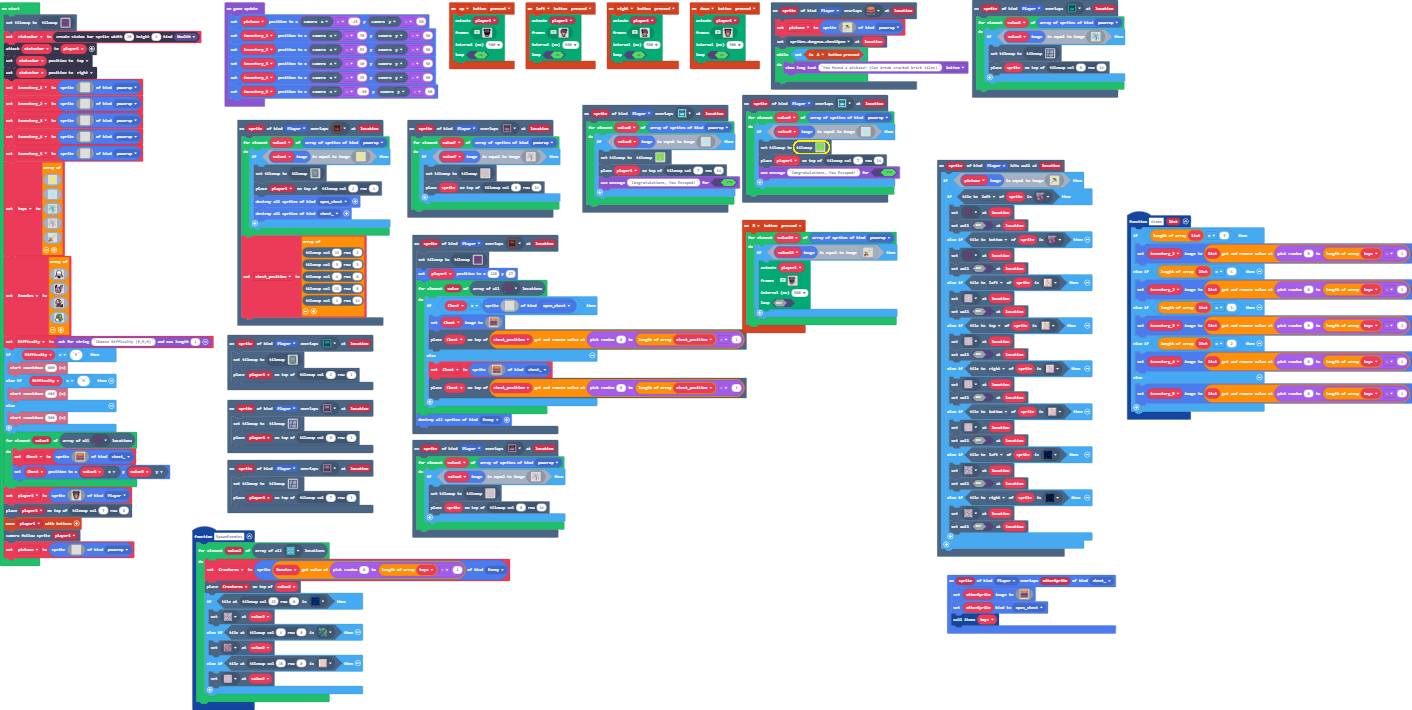
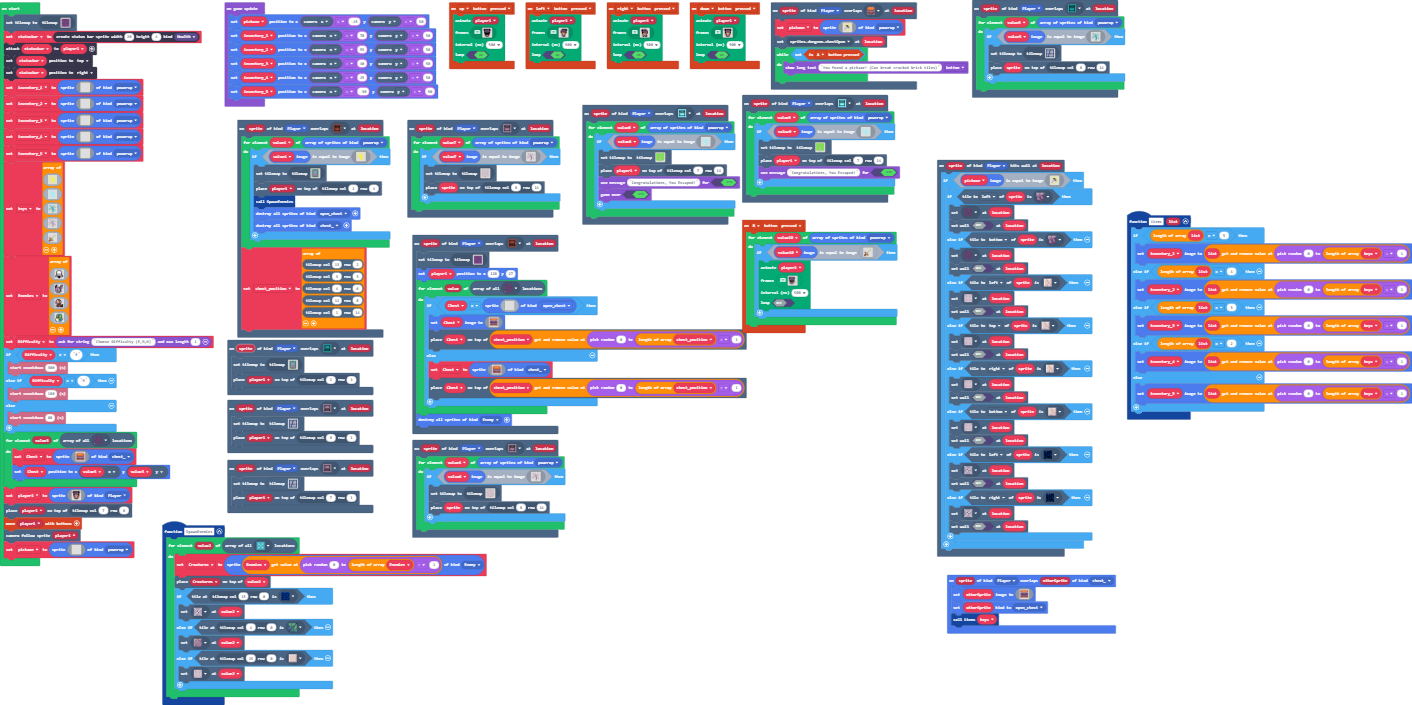
Update main.blocks, main.ts, tilemap.g.jres, tilemap.g.ts

diff --git a/tilemap.g.ts b/tilemap.g.ts
@@ -2207,25 +2207,6 @@ namespace myTiles {
 . . . . . . . . . . . . . . . . 
 . . . . . . . . . . . . . . . . 
 `, [myTiles.transparency16], TileScale.Sixteen);
-            case "level95":
[1 lines of base64/hex data omitted]
-. . . . . . . . . . . . . . . . 
-. . . . . . . . . . . . . . . . 
-. . . . . . . . . . . . . . . . 
-. . . . . . . . . . . . . . . . 
-. . . . . . . . . . . . . . . . 
-. . . . . . . . . . . . . . . . 
-. . . . . . . . . . . . . . . . 
-. . . . . . . . . . . . . . . . 
-. . . . . . . . . . . . . . . . 
-. . . . . . . . . . . . . . . . 
-. . . . . . . . . . . . . . . . 
-. . . . . . . . . . . . . . . . 
-. . . . . . . . . . . . . . . . 
-. . . . . . . . . . . . . . . . 
-. . . . . . . . . . . . . . . . 
-. . . . . . . . . . . . . . . . 
-`, [myTiles.transparency16,sprites.castle.tileGrass2,myTiles.tile19,myTiles.tile20,sprites.castle.tileGrass1,sprites.castle.tileGrass3,sprites.castle.tilePath7,sprites.castle.tilePath4,sprites.castle.tilePath1,sprites.castle.tilePath3,sprites.castle.tilePath9,sprites.castle.tilePath6,sprites.builtin.brick,sprites.dungeon.stairSouth,myTiles.tile22,myTiles.tile23], TileScale.Sixteen);
             case "level2":
             case "level2":return tiles.createTilemap(hex`1000100000000000000000000000000000000000000000000000000000000000000000000000000000000000000000000000000000000000000000000000000000000000000000000000000000000000000000000000000000000000000000000000000000000000000000000000000000000000000000000000000000000000000000000000000000000000000000000000000000000000000000000000000000000000000000000000000000000000000000000000000000000000000000000000000000000000000000000000000000000000000000000000000000000000000000000000000000000000000000000000000000000000000000000000000000000000`, img`
 . . . . . . . . . . . . . . . . 
@@ -2245,6 +2226,25 @@ namespace myTiles {
 . . . . . . . . . . . . . . . . 
 . . . . . . . . . . . . . . . . 
 `, [myTiles.transparency16], TileScale.Sixteen);
+            case "level95":
[1 lines of base64/hex data omitted]
+. . . . . . . . . . . . . . . . 
+. . . . . . . . . . . . . . . . 
+. . . . . . . . . . . . . . . . 
+. . . . . . . . . . . . . . . . 
+. . . . . . . . . . . . . . . . 
+. . . . . . . . . . . . . . . . 
+. . . . . . . . . . . . . . . . 
+. . . . . . . . . . . . . . . . 
+. . . . . . . . . . . . . . . . 
+. . . . . . . . . . . . . . . . 
+. . . . . . . . . . . . . . . . 
+. . . . . . . . . . . . . . . . 
+. . . . . . . . . . . . . . . . 
+. . . . . . . . . . . . . . . . 
+. . . . . . . . . . . . . . . . 
+. . . . . . . . . . . . . . . . 
+`, [myTiles.transparency16,sprites.castle.tileGrass2,sprites.castle.tileGrass1,sprites.castle.tileGrass3,sprites.castle.tilePath7,sprites.castle.tilePath4,sprites.castle.tilePath1,sprites.castle.tilePath3,sprites.castle.tilePath9,sprites.castle.tilePath6,sprites.builtin.brick,sprites.dungeon.stairSouth,myTiles.tile22,myTiles.tile23,sprites.builtin.forestTiles0], TileScale.Sixteen);
         }
         return null;
     })

diff --git a/main.ts b/main.ts
@@ -292,6 +292,7 @@ scene.onOverlapTile(SpriteKind.Player, assets.tile`myTile`, function (sprite, lo
             `)) {
             tiles.setCurrentTilemap(tilemap`level5`)
             tiles.placeOnTile(player1, tiles.getTileLocation(2, 4))
+            SpawnEnemies()
             sprites.destroyAllSpritesOfKind(SpriteKind.open_chest)
             sprites.destroyAllSpritesOfKind(SpriteKind.chest_)
         }
@@ -306,7 +307,7 @@ scene.onOverlapTile(SpriteKind.Player, assets.tile`myTile`, function (sprite, lo
 })
 function SpawnEnemies () {
     for (let value2 of tiles.getTilesByType(sprites.dungeon.collectibleInsignia)) {
-        Creatures = sprites.create(Enemies[randint(0, keys.length - 1)], SpriteKind.Enemy)
+        Creatures = sprites.create(Enemies[randint(0, Enemies.length - 1)], SpriteKind.Enemy)
         tiles.placeOnTile(Creatures, value2)
         if (tiles.tileAtLocationEquals(tiles.getTileLocation(15, 0), assets.tile`myTile4`)) {
             tiles.setTileAt(value2, assets.tile`myTile3`)
@@ -429,6 +430,7 @@ scene.onOverlapTile(SpriteKind.Player, assets.tile`myTile18`, function (sprite, 
             tiles.setCurrentTilemap(tilemap`level95`)
             tiles.placeOnTile(player1, tiles.getTileLocation(7, 14))
             game.setGameOverMessage(true, "Congratulations, You Escaped!")
+            game.gameOver(true)
         }
     }
 })
@@ -967,11 +969,11 @@ img`
 ]
 let Difficulty = game.askForString("Choose Difficulty (E,M,H)", 1)
 if (Difficulty == "E") {
-    info.startCountdown(600)
-} else if (Difficulty == "M") {
-    info.startCountdown(480)
-} else {
     info.startCountdown(300)
+} else if (Difficulty == "M") {
+    info.startCountdown(180)
+} else {
+    info.startCountdown(80)
 }
 for (let value3 of tiles.getTilesByType(sprites.dungeon.darkGroundNorthEast1)) {
     Chest = sprites.create(img`
